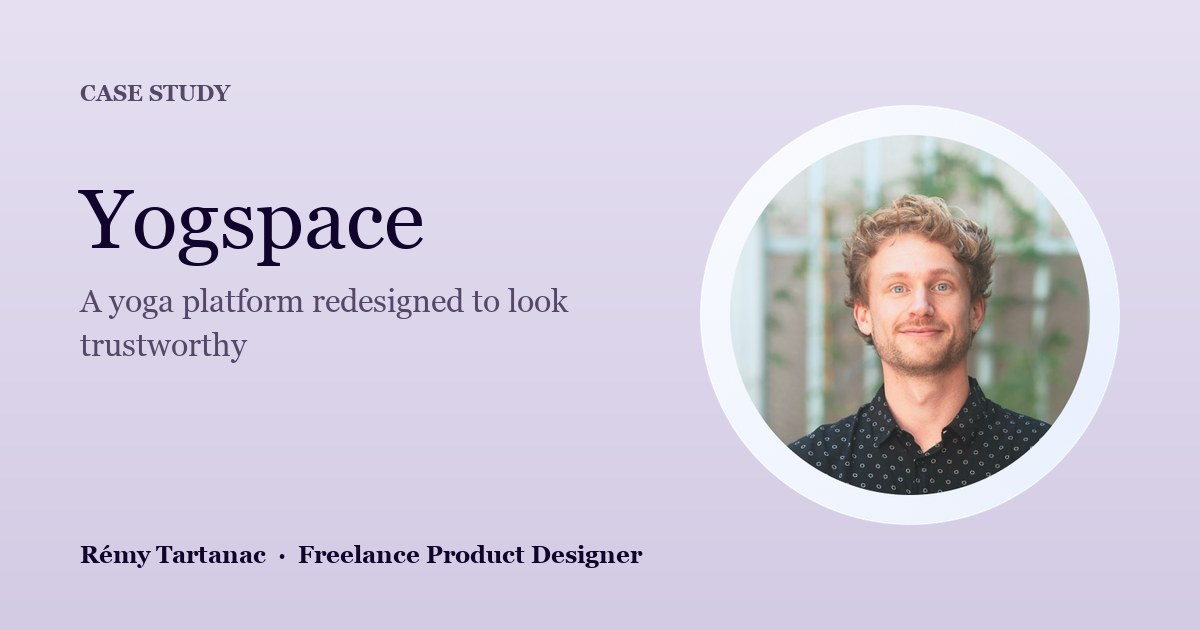
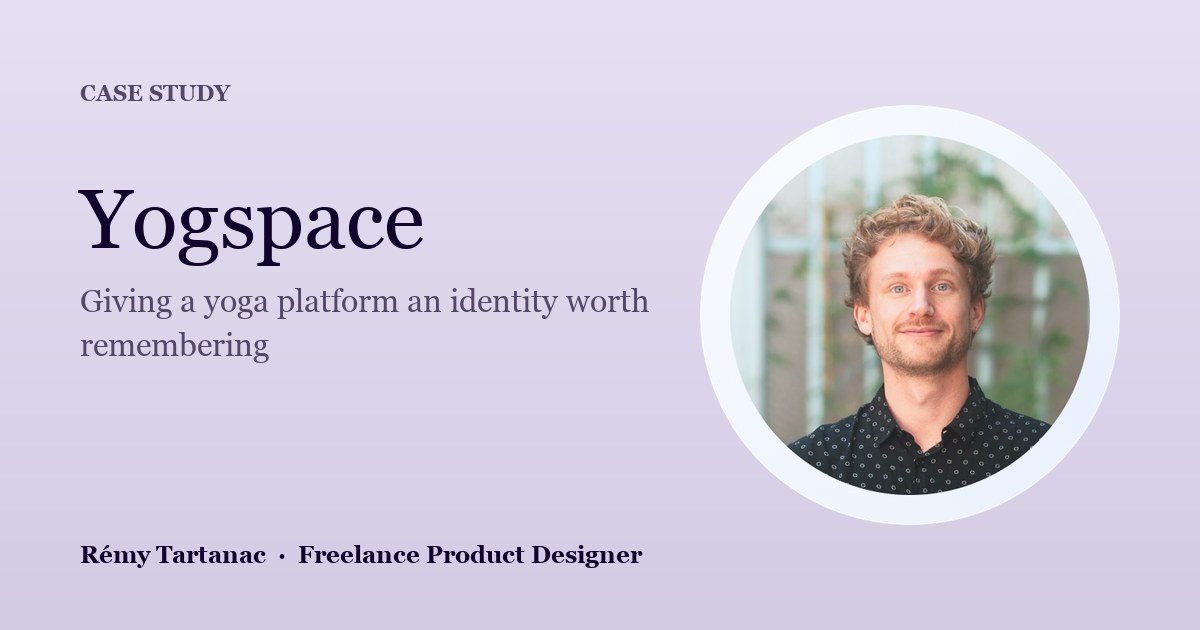
Yogspace: new brief, typography, colour and trust copy; updated cards and social card
- Brief: previous design described as basic, empty and forgettable; art direction
  inspired by India, breath and zen (EN and FR)
- Typography, colour and trust decisions rewritten, hospitality and teal angles removed
- Home card descriptions and social card follow the new message

Changed region(s): [[0.0617, 0.4524, 0.555, 0.573]]

diff --git a/fr/yogspace.html b/fr/yogspace.html
@@ -608,7 +608,7 @@
         </div>
         <div class="cs-problem-content reveal reveal-delay-1">
           <p class="cs-body-bold">Yogspace met en relation des élèves avec des professeurs de yoga certifiés, pour des cours particuliers en direct, dans la tradition des grandes lignées indiennes. Je ne partais pas d'une page blanche : le produit était déjà construit et en ligne.</p>
-          <p class="cs-body">Ce que Yogspace vendait, c'était une expérience : des cours particuliers en direct avec des professeurs certifiés, ancrés dans de vraies lignées indiennes. Le site n'en disait rien. Il paraissait basique et vide, loin du yoga, plat côté émotion et quasi nul en impact visuel, comme un template bâclé fait par une IA. En un mot : pas mémorable. Je n'inventais pas une marque à partir de rien. Il fallait combler l'écart entre ce que fait le produit et l'impression qu'il laissait.</p>
+          <p class="cs-body">Ce que Yogspace vendait, c'était une expérience : des cours particuliers en direct avec des professeurs certifiés, ancrés dans de vraies lignées indiennes. Le site n'en disait rien. Il paraissait basique et vide, loin du yoga, plat côté émotion et quasi nul en impact visuel, comme un template bâclé fait par une IA. En un mot : pas mémorable. J'ai créé une direction artistique complète, inspirée de l'Inde, de la respiration et du zen, pour rendre le produit à la fois rassurant et engageant.</p>
         </div>
       </div>
       <div class="cs-scope-card reveal reveal-delay-2">
@@ -660,14 +660,14 @@
         <div class="cs-principle">
           <span class="cs-principle-num">01</span>
           <span class="cs-principle-title">Une typographie qui a du caractère</span>
-          <p class="cs-principle-desc">La typo d'origine était un duo par défaut, qui aurait pu habiller n'importe quel template bien-être. J'ai passé les titres en EB Garamond, associée à Karla pour les textes d'interface. Le rendu évoque un hôtel haut de gamme plus qu'une app de fitness.</p>
+          <p class="cs-principle-desc">La typo d'origine était un duo par défaut, qui aurait pu habiller n'importe quel template bien-être. J'ai passé les titres en EB Garamond, associée à Karla pour les textes d'interface. Le rendu évoque une expérience haut de gamme plus qu'une app de fitness.</p>
           <p class="cs-font-sample">Apprendre le yoga à sa <em>source.</em></p>
           <p class="cs-font-sample-sub">EB Garamond / Karla</p>
         </div>
         <div class="cs-principle">
           <span class="cs-principle-num">02</span>
-          <span class="cs-principle-title">Loin du cliché vert d'eau du bien-être</span>
-          <p class="cs-principle-desc">Toutes les apps de yoga piochent dans le même vert sauge ou le même bleu spa, et le vert profond d'origine ajoutait surtout une note corporate. J'ai choisi une terre cuite chaude, qui tire vers le safran, un clin d'œil discret au drapeau indien et aux lignées dans lesquelles ces professeurs se sont vraiment formés. Posée sur du crème, avec un bleu nuit presque noir pour structurer l'interface, elle évoque une marque de voyage ou d'hôtellerie soignée bien plus qu'un template.</p>
+          <span class="cs-principle-title">Une palette chaleureuse, inspirée de l'Inde</span>
+          <p class="cs-principle-desc">J'ai choisi une terre cuite chaude, qui tire vers le safran, un clin d'œil discret au drapeau indien et aux lignées dans lesquelles ces professeurs se sont vraiment formés. Posée sur du crème, avec un bleu nuit presque noir pour structurer l'interface, elle rassure autant qu'elle donne envie d'entrer dans l'expérience.</p>
           <div class="cs-swatches">
             <span class="cs-swatch" style="background:#E89059;"></span>
             <span class="cs-swatch" style="background:#FFF8EC;"></span>
@@ -677,7 +677,7 @@
         <div class="cs-principle">
           <span class="cs-principle-num">03</span>
           <span class="cs-principle-title">Une confiance qui se voit</span>
-          <p class="cs-principle-desc">« Certifié », écrit simplement dans un paragraphe, ne voulait rien dire. J'ai dessiné une petite série de badges custom (Top professeur, Certifié, Spécialiste) et j'ai transformé l'historique de certification de chaque professeur en vraie frise chronologique. Le diplôme devient quelque chose qu'on voit.</p>
+          <p class="cs-principle-desc">Les diplômes d'un professeur doivent se voir au premier regard. J'ai dessiné une petite série de badges custom (Top professeur, Certifié, Spécialiste) et transformé l'historique de certifications de chaque professeur en frise chronologique : l'élève voit tout de suite d'où vient son savoir-faire.</p>
           <div class="cs-icon-row">
             <span class="cs-icon-chip"><img loading="lazy" src="/assets/yog-badge-toprated.png" alt="Badge Yogspace « Top professeur »"></span>
             <span class="cs-icon-chip"><img loading="lazy" src="/assets/yog-badge-certified.png" alt="Badge Yogspace « Professeur certifié »"></span>

diff --git a/yogspace.html b/yogspace.html
@@ -608,7 +608,7 @@
         </div>
         <div class="cs-problem-content reveal reveal-delay-1">
           <p class="cs-body-bold">Yogspace connects students with certified yoga teachers for live, 1:1 classes taught in or inspired by traditional Indian lineages. This wasn't a blank page: the founder had already built and shipped it.</p>
-          <p class="cs-body">What Yogspace was selling was an experience: live 1:1 classes with certified teachers rooted in real Indian lineages. The site said none of that. It looked basic and empty, far from yoga, flat in emotion and low in visual impact, like a lazy, AI-made template. In one word: not memorable. I wasn't inventing a brand from nothing here. I was closing the gap between what the product did and the impression it left.</p>
+          <p class="cs-body">What Yogspace was selling was an experience: live 1:1 classes with certified teachers rooted in real Indian lineages. The site said none of that. It looked basic and empty, far from yoga, flat in emotion and low in visual impact, like a lazy, AI-made template. In one word: not memorable. I created a full artistic direction, inspired by India, breath and zen, to make the product both reassuring and engaging.</p>
         </div>
       </div>
       <div class="cs-scope-card reveal reveal-delay-2">
@@ -660,14 +660,14 @@
         <div class="cs-principle">
           <span class="cs-principle-num">01</span>
           <span class="cs-principle-title">Typography with character</span>
-          <p class="cs-principle-desc">The original type was a default pairing that could sit on any wellness template. I moved headlines to EB Garamond, paired with Karla for UI text, closer to a hospitality brand than a fitness app.</p>
+          <p class="cs-principle-desc">The original type was a default pairing that could sit on any wellness template. I moved headlines to EB Garamond, paired with Karla for UI text. The result feels like a premium experience more than a fitness app.</p>
           <p class="cs-font-sample">Learn yoga from its <em>source.</em></p>
           <p class="cs-font-sample-sub">EB Garamond / Karla</p>
         </div>
         <div class="cs-principle">
           <span class="cs-principle-num">02</span>
-          <span class="cs-principle-title">Away from the wellness-teal cliché</span>
-          <p class="cs-principle-desc">Every yoga app reaches for the same sage green or spa teal, and the original's deep green only added a corporate note. I chose a warm terracotta instead, closer to saffron, a quiet nod to the Indian flag and the lineage these teachers actually trained in. Set against cream and a near-black navy for UI weight, it reads closer to a considered travel or hospitality brand than a template.</p>
+          <span class="cs-principle-title">A warm palette inspired by India</span>
+          <p class="cs-principle-desc">I chose a warm terracotta, closer to saffron, a quiet nod to the Indian flag and the lineage these teachers actually trained in. Set against cream and a near-black navy for UI weight, it reassures as much as it invites you into the experience.</p>
           <div class="cs-swatches">
             <span class="cs-swatch" style="background:#E89059;"></span>
             <span class="cs-swatch" style="background:#FFF8EC;"></span>
@@ -677,7 +677,7 @@
         <div class="cs-principle">
           <span class="cs-principle-num">03</span>
           <span class="cs-principle-title">Trust made visible, not just stated</span>
-          <p class="cs-principle-desc">"Certified" meant nothing as a plain word in a paragraph. I designed a small set of custom badge icons (top rated, certified, specialist) and turned each teacher's certification history into an actual timeline, so the credential is something you can actually see.</p>
+          <p class="cs-principle-desc">A teacher's credentials should be visible at a glance. I designed a small set of custom badges (top rated, certified, specialist) and turned each teacher's certification history into a timeline, so students can see right away where the expertise comes from.</p>
           <div class="cs-icon-row">
             <span class="cs-icon-chip"><img loading="lazy" src="assets/yog-badge-toprated.png" alt="Yogspace top rated teacher badge icon"></span>
             <span class="cs-icon-chip"><img loading="lazy" src="assets/yog-badge-certified.png" alt="Yogspace certified teacher badge icon"></span>

diff --git a/fr/index.html b/fr/index.html
@@ -1092,7 +1092,7 @@
             </div>
             <div class="project-content">
               <h3 class="project-title">Refonte du site d'une plateforme de cours de yoga en ligne</h3>
-              <p class="project-desc">Un site à l'image lourde et générique, transformé en marque élégante et crédible. Nouvelle version en ligne très bientôt.</p>
+              <p class="project-desc">Un site basique et oubliable, transformé en identité mémorable. Nouvelle version en ligne très bientôt.</p>
             </div>
           </div>
           <div class="project-btn"><span><svg width="20" height="20" viewBox="0 0 14 14" fill="none" aria-hidden="true"><path d="M5 2L10 7L5 12" stroke="currentColor" stroke-width="1.25" stroke-linecap="round" stroke-linejoin="round"/></svg></span></div>

diff --git a/index.html b/index.html
@@ -1092,7 +1092,7 @@
             </div>
             <div class="project-content">
               <h3 class="project-title">Website redesign for an online yoga platform</h3>
-              <p class="project-desc">Took a live product from chunky and generic to editorial and credible, launching soon.</p>
+              <p class="project-desc">Took a live product from basic and forgettable to an identity worth remembering, launching soon.</p>
             </div>
           </div>
           <div class="project-btn"><span><svg width="20" height="20" viewBox="0 0 14 14" fill="none" aria-hidden="true"><path d="M5 2L10 7L5 12" stroke="currentColor" stroke-width="1.25" stroke-linecap="round" stroke-linejoin="round"/></svg></span></div>
